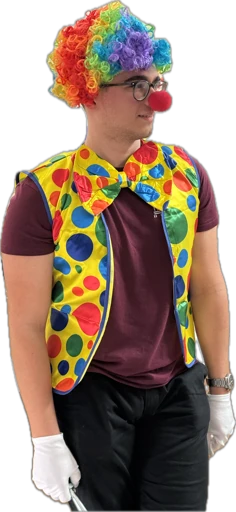
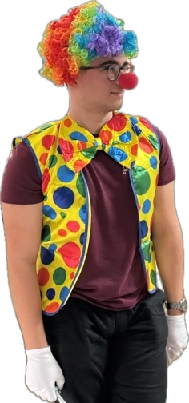
Major structural update. Added support for files linked to each other. Restructured installation tutorial on Index page. Restructured guide to how to edit documentation.

diff --git a/docs/index.md b/docs/index.md
@@ -25,47 +25,51 @@ Before writing, you need to set up your "Development Environment". You only need
 
 ### Step A: Install the Tools
 1.  **VS Code**: Download and install [Visual Studio Code](https://code.visualstudio.com/). This is the editor we use.
-2.  **Git**: Download and install [Git](https://git-scm.com/downloads).
-       *Windows users:* Select "Use Git from the Windows Command Prompt" during installation.
-3.  **Python**: Zensical runs on Python. Download [Python 3.x](https://www.python.org/downloads/).
-       !!! warning "Important for Windows"
-        During installation, make sure to check the box **"Add Python to PATH"** at the bottom of the installer window.
-4. **PyEnv**: it is recommended by the developers to install Zensical on a virtual environment.
-       If you are on Ubuntu (as you should) install pyenv using the official installer:
+2.  **Git**: Download and install [Git](https://git-scm.com/downloads).  
+3.  **Python**: Zensical runs on Python. Download [Python 3.x](https://www.python.org/downloads/) or simply download it through the **"Extensions"** panel of VSCode.
 
-    `curl https://pyenv.run | bash`
+!!! warning "Important for Windows"
 
-    Then follow the message that appears in the console and add those lines to ~/.bashrc
+       * During Git installation, select **"Use Git from the Windows Command Prompt"**.
 
-???+ info "About PyEnv installation"
+???+ info "PyEnv"
+       It is recommended by the developers to install Zensical on a virtual environment.  
+       
+       If you want to use PyEnv, during Python installation, make sure to check the box **"Add Python to PATH"** at the bottom of the installer window.
+      
+       If you are on Ubuntu (as you should) install pyenv using the official installer:  
+       `curl https://pyenv.run | bash`  
+       Then follow the message that appears in the console and add those lines to ~/.bashrc
+
        You can skip PyEnv and install Zensical out of the virtual environment and it will work smoothly. 
-       Installing it in a venv is just how the developers recommend to install it.
+       Installing it in a venv is just how the developers recommend to install it, but we don't care, it's simpler without it.
 
 ### Step B: VS Code Setup
 Open VS Code and install these recommended extensions (click the square icon on the left sidebar):
 
 *   **Markdown All in One** (by Yu Zhang) - Helps with shortcuts and table of contents.
-
 *   **Code Spell Checker** (by Street Side Software) - Typos are unprofessional!
-*   **GitHub Pull Requests** - Makes syncing easier.
 
 ### Step C: Install Zensical
-Open up a terminal window and install Zensical by first setting up a virtual environment and then using pip to install the Zensical package into it:
+Open up a terminal window and install Zensical by using pip to install the Zensical package:
 
 ```
-python3 -m venv .venv
-source .venv/bin/activate
 pip install zensical
 ```
 
-???+ info "About PyEnv installation"
-       You can skip PyEnv and install Zensical out of the virtual environment and it will work smoothly. 
-       Installing it in a venv is just how the developers recommend to install it.
+???+ info "PyEnv"
+       If you are using PyEnv create and activate your environment before installing zensical using:  
+       
+       ```
+       python3 -m venv .venv
+       source .venv/bin/activate
+       ```
 
 ### Step D: Clone repo
 You are now ready to clone the repo 'documentation' from the STT github and start editing it.
 
-Every time you open the project to do some changes first **Pull** to see if there are any changes incoming.
+Every time you open the project to do some changes first **Pull** to see if there are any changes incoming.  
+If GitHub signals any conflict please report to us.
 
 ---
 
@@ -78,23 +82,10 @@ In the terminal you have activated your virtual environment on just run:
 
 * Go to [localhost:8000](http://localhost:8000/documentation) or simply click this link.
 
-* Verify your changes and then **Commit** your edits. When you are done editing just **Push** in the repo.
-
-!!! warning "Versioning"
-       As a good practice always **Push** your changes when you finish your edit session.  
-       Remember to only push changes after checking that the local version is tested, otherwise you could get **salsicciato** if you have to correct your pushes.  
-       Please write good commit comments, so we can know what you just uploaded(another way to get **salsicciato**).
-
 It is recommended to read the [Markdown page](https://sapienza-technology.github.io/documentation/markdown/) to understand how to write markdown.
 
 ## 3. How to actually use Github
 
-If you need to add info on the documentation:
-
-1. First prepare your changes editing on the main branch. DO NOT COMMIT!
-2. Create a new branch of the repo with name: "division_name-branch_name"
-3. Commit your changes on the new branch
-4. Once finalized all the changes ask your division leaders to check
-5. After the check ask team leaders for final check and merge
+Look the guide [here](https://sapienza-technology.github.io/documentation/example/) on how to edit your files and commit on the repo.
 
 ---

diff --git a/docs/example.md b/docs/example.md
@@ -1,52 +1,41 @@
-# --- Example documentation structure ---
-# Title of section goes here
-## Title of subsection goes here
+# How to use GitHub to edit the documentation
 
-### Maybe put here a nice image, better if it's meme
+## Short guide
+
+1. Edit files locally.
+2. Check results using `zensical serve`.
+3. **Commit** locally your edits.
+4. Repeat from 1 to 3 until it's finished.
+5. Create new branch  with name: "division_name-branch_name" <br> (example: Instruments-kinematic_control).
+6. Commit your changes on the new branch.
+7. Once finalized all the changes ask your division leaders to check.
+8. After the check ask team leaders for final check and merge.  
+   
+
+
 ![Clown](assets\images\clown.webp)
+!!!bug "Don't be a clown merging by yourself!"
 
-!!! warning "WARNING"
+## Rules
 
-    Attention: Clown Warning!
+- Do not touch any file that doesn't belong to you.
+- Do not CREATE any ".md" file, ask team leaders for creating.
+- Do not DELETE any ".md" file or any file that doesn't belong to you.
+- You are free to upload images (use ".webp" format because it's optimized) or any other file you want to include in the documentation, but only in the "assets" folder of your division.
 
-### What to write
+!!! info "Memes"
+       If you have to upload memes just ask us, so we upload them on the main *assets* folder to be reused in every page.
 
-1. General overview of the topic. Simple language, non-technical.
-2. Technical structure of the documentation. Add an explanatory schema or github folder structure. (Zensical has support for diagrams, you find examples [here](markdown/#flowcharts)).
+!!! warning "Versioning"
+       Please write good commit comments, so we can know what you just uploaded.  
+       If you don't and just write something like "added clowns" it's a good way to get **salsicciato** by us.
 
-:clown: Example: Clowns repo
-```
-clowns_folder/                # The clowns of STT
-  real_clowns/                # Renowned clowns
-    nic.sch                   # It's always an Electronics problem
-    federico.md               # Our best and most renown clown
-  wannabe_clowns/             # They try to be clowns
-    giorgio.xml               # Tried to become a one-eyed clown
-    peri.html                 # He tries very hard to be one
-not_clowns_folder/            # They are "probably" not clowns
-  problably_not_clowns/       # You never know, maybe they are clowns in disguise
-    a_gravili.php             # Not a clown, but the detector crashes every time
-    viscio.xls                # Sometimes seems like a clown when sleeping 
-  absolutely_not_clowns/      # Surely not clowns
-    lorenzo.bmp               # The "not clown" god of images compression
-    a_santarelli.docx         # Father of the WD-40 family, and they are not clowns
-    vincenzo.ppt              # In charge to present Peri's work, while he does clown work
-__init__.py                   # empty file, we do not need to initialize clowns, they are already amongst us
-clown_detector.py             # Well, you need a way to detect them, sometimes the script crashes
-readme_please.txt             # Or maybe not
-```
+## How do the pages work?
+For each subtopic you will find in its folder a folder named *paragraphs* and a file *main.md*.  
+Inside that *main.md* file you will find references to the .md files inside the *paragraphs* folder.  
+**DO NOT** edit *main.md*, it will automatically be edited by those who create .md files when you ask.  
+Each page in *paragraph* will be linked in the *main.md* and visualized one after another.
 
-``` mermaid
-graph LR
-  A[Start] --> B{Encoder G4?};
-  B -->|Broken| C{Debug};
-  C -->|Electronic problem| D[Nic's Fault];
-  D -->|Nic pls fix it| B;
-  C -->|Software problem| E[Still Nic's Fault];
-  E -->|WE have to fix it| B;
-  B ---->|Functioning| F;
-```
-1. Actual technical documentation, do your worst.  
-Lorem ipsum dolor sit amet, consectetur adipiscing elit, sed do techscursione tempor incididunt ut labore et dolore magna aliqua. Ut enim ad minim veniam, quis nostrud exercitation espnow ullamco laboris nisi ut aliquip ex ea commodo consequat. Duis aute irure dolor in reprehenderit in encoder voluptate velit esse cillum dolore eu fugiat nulla pariatur. Excepteur sint occaecat cupidatat non proident, sunt in culpa qui officia salsiccia mollit anim id est cicciotto laborum sed ut bracciotto unde omnis iste natus error sit voluptatem.
-
-![WD40](assets\images\wd40.webp)
+!!! help "Need help?"
+      If you have troubles, you can contact the maintainer of the documentation (me writing) on Telegram at *@riccardo_flames*  
+      Since I just studied this things to create all you see here, I'm probably the best person to ask for help.

diff --git a/docs/markdown.md b/docs/markdown.md
@@ -49,11 +49,27 @@ esempio pazzo
 
 ## Project layout
 
-    zensical.toml    # The configuration file.
-    docs/
-        index.md  # The documentation homepage.
-        ...       # Other markdown pages, images and other files.
-
+:clown: Example: Clowns repo
+```
+clowns_folder/                # The clowns of STT
+  real_clowns/                # Renowned clowns
+    nic.sch                   # It's always an Electronics problem
+    federico.md               # Our best and most renown clown
+  wannabe_clowns/             # They try to be clowns
+    giorgio.xml               # Tried to become a one-eyed clown
+    peri.html                 # He tries very hard to be one
+not_clowns_folder/            # They are "probably" not clowns
+  problably_not_clowns/       # You never know, maybe they are clowns in disguise
+    a_gravili.php             # Not a clown, but the detector crashes every time
+    viscio.xls                # Sometimes seems like a clown when sleeping 
+  absolutely_not_clowns/      # Surely not clowns
+    lorenzo.bmp               # The "not clown" god of images compression
+    a_santarelli.docx         # Father of the WD-40 family, and they are not clowns
+    vincenzo.ppt              # In charge to present Peri's work, while he does clown work
+__init__.py                   # empty file, we do not need to initialize clowns, they are already amongst us
+clown_detector.py             # Well, you need a way to detect them, sometimes the script crashes
+readme_please.txt             # Or maybe not
+```
 ```py title="titolo.py" linenums="15"
 def puzza():
 
@@ -72,8 +88,8 @@ def puzza():
 
 ## Text formatting
 ```
-**bold text**
 *italic text*
+**bold text**
 ***bold and italic***
 ~~strikethrough~~
 ==marked text==
@@ -85,10 +101,20 @@ def puzza():
 ## Links and images
 ```
 [Link text](https://example.com)
-[Link with title](https://example.com "Hover title")
-![Alt text](image.jpg)
+[Link with title](https://example.com "Hover title")  
+
+![Alt text of image](image.jpg)
 ![Image with title](image.jpg "Image title")
 ```
+
+??? help "My image is too big!"
+        You can use CSS syntax after the image.  
+        Example: ![Alt text](image.jpg){ width="300" }
+
+??? help "I can't see my image"
+      Try to use the html-style syntax. Use this example changing path accordingly:  
+      ```<img src="https://sapienza-technology.github.io/documentation/assets/images/viscio.webp">```
+
 
 ## Lists
 Unordered:
@@ -170,11 +196,13 @@ Or use a blank line for a new paragraph.
 ## Flowcharts
 ``` mermaid
 graph LR
-  A[Start] --> B{Error?};
-  B -->|Yes| C[Hmm...];
-  C --> D[Debug];
-  D --> B;
-  B ---->|No| E[Yay!];
+  A[Start] --> B{Encoder G4?};
+  B -->|Broken| C{Debug};
+  C -->|Electronic problem| D[Nic's Fault];
+  D -->|Nic pls fix it| B;
+  C -->|Software problem| E[Still Nic's Fault];
+  E -->|WE have to fix it| B;
+  B ---->|Functioning| F;
 ```
 
 ## Sequence diagrams

diff --git a/docs/instruments/arm/main.md b/docs/instruments/arm/main.md
@@ -1,1 +1,1 @@
---8<-- "docs/instruments/arm/arm.md"
+--8<-- "docs/instruments/arm/paragraphs/arm.md"

diff --git a/docs/structure/navigation/main.md b/docs/structure/navigation/main.md
@@ -1,0 +1,1 @@
+--8<-- "docs/structure/navigation/paragraphs/navigation.md"

diff --git a/docs/cameras/antenna/main.md b/docs/cameras/antenna/main.md
@@ -1,0 +1,1 @@
+--8<-- "docs/cameras/antenna/paragraphs/antenna.md"

diff --git a/docs/instruments/drill/main.md b/docs/instruments/drill/main.md
@@ -1,0 +1,1 @@
+--8<-- "docs/instruments/drill/paragraphs/drill.md"

diff --git a/docs/structure/wheels/main.md b/docs/structure/wheels/main.md
@@ -1,0 +1,1 @@
+--8<-- "docs/structure/wheels/paragraphs/wheels.md"

diff --git a/docs/cameras/rover/paragraphs/rover.md b/docs/cameras/rover/paragraphs/rover.md
@@ -1,4 +1,4 @@
-# Rover Cameras
+# Rover cameras
 
 ## Hardware
 

diff --git a/docs/cameras/rover/main.md b/docs/cameras/rover/main.md
@@ -1,0 +1,1 @@
+--8<-- "docs/cameras/rover/paragraphs/rover.md"

diff --git a/docs/cameras/arm/main.md b/docs/cameras/arm/main.md
@@ -1,0 +1,1 @@
+--8<-- "docs/cameras/arm/paragraphs/arm.md"

diff --git a/docs/drone/main.md b/docs/drone/main.md
@@ -1,0 +1,1 @@
+--8<-- "docs/drone/paragraphs/drone.md"
